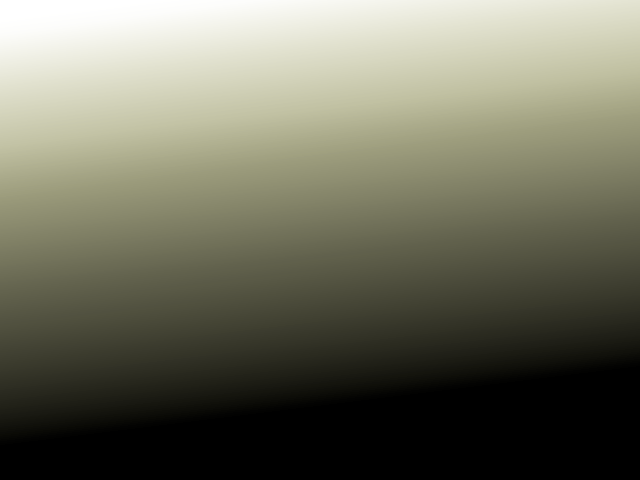
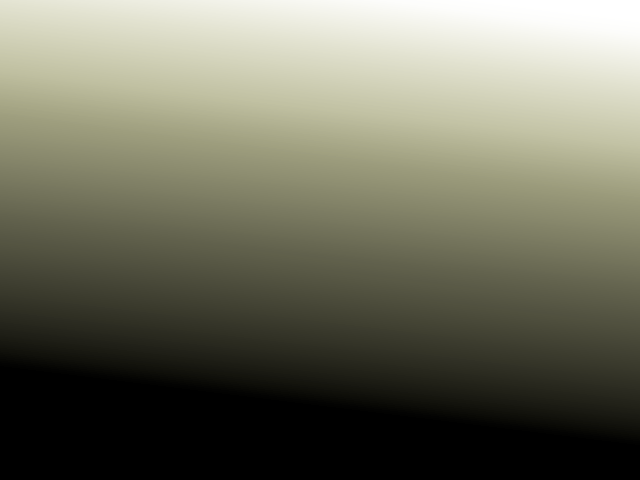
you either skate, or you die
-removing more sp than on hand now also removes hp as well
-sunlight.png flipped so the light is coming from the east, since it's used during a morning scene
-added dialogue to map 92

too sleapy to do more than this tonight

diff --git a/Lunatic_Nautilus/Scripts/Interpreter_6.rb b/Lunatic_Nautilus/Scripts/Interpreter_6.rb
@@ -146,6 +146,19 @@ class Interpreter
     iterate_actor(@parameters[0]) do |actor|
       # Change actor SP
       actor.sp += value
+      
+      if value < 0 and value.abs > actor.sp #if it's more than the sp available
+        #then save that extra in thing
+        thing = value.abs - actor.sp
+        #and subtract that amount from hp
+        actor.hp -= thing
+        #if it killed the actor, 
+        #check if they're the front party member (not added yet)
+        if actor.hp < 1 
+          actor.hp = 1
+        end
+      end
+      
     end
     # Continue
     return true
